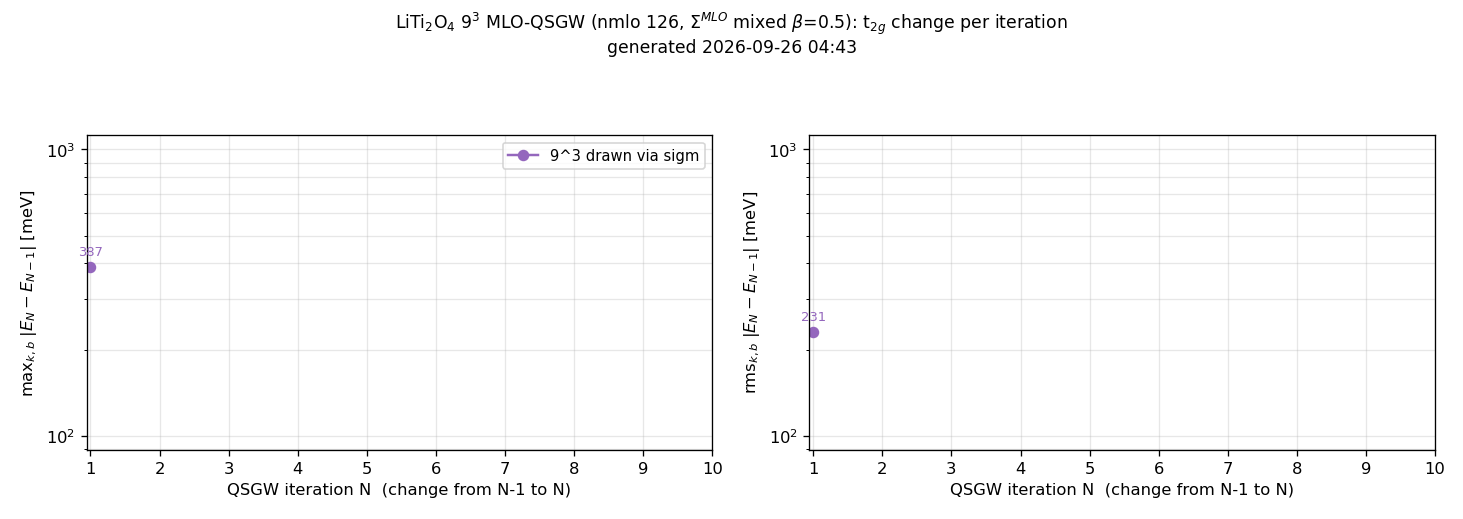
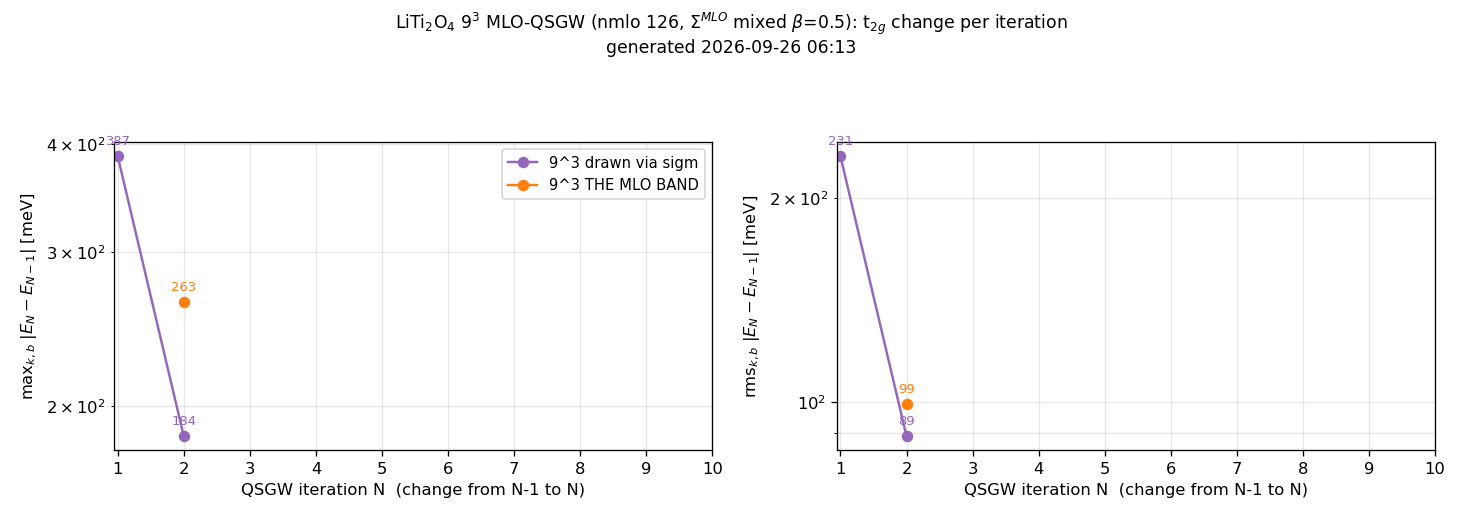
kBT_research: 9^3 iteration 2, and why the MLO markers count what they count
Iteration 2: 5326 s, clean.  The check flagged gwdrv=50 against the 6^3 value 36.
Both markers are printed once per process, by the processes that own at least one
k point, and lmf hands out k points in blocks of ceil(nk/np).  With np=60: SCF 16 -> 35
(irreducible k), GW driver 72 -> 200 q in blocks of 2 -> 4, i.e. 36 -> 50; the MLO band
writeham at np=8 gives 8 -> 7.  All normal; the table of expected values goes next to
the living figure.

diff --git a/Samples/kBT/kBT_research.md b/Samples/kBT/kBT_research.md
@@ -15,7 +15,7 @@
 
 ## 最新の図（走行中のチェーンを映す。ここだけ上書きされる）
 
-**最終更新 2026-09-26 04:50**（9³ iter 1）／ 追っているのは **`liti_mlo_k9`**（**9³**、nmlo 126、$\Sigma^{\rm MLO}$ を β=0.5 で混合、10 反復投入、03:07 開始）。
+**最終更新 2026-09-26 06:15**（9³ iter 2）／ 追っているのは **`liti_mlo_k9`**（**9³**、nmlo 126、$\Sigma^{\rm MLO}$ を β=0.5 で混合、10 反復投入、03:07 開始）。
 6³ の v9 は 10 反復で完了し、最終図は 03:15 のエントリに凍結した。
 
 | 列 | 何を描いたか | 描き方 |
@@ -43,9 +43,21 @@
 | $N$ | 時刻 | 秒 | SCF 回数 | `sigm` 描画 max / rms | MLO バンド max / rms | 備考 |
 |---|---|---|---|---|---|---|
 | 1 | 04:39 | 5314 | 19 | 387 / 231（LDA から）| — | 混合 543.85 → 271.92（半分）、MISS 0 |
+| 2 | 06:10 | 5326 | 11 | 184 / 89 | 263 / 99 | $x_0$ を `.prev` から、MISS 0 |
 
-**9³ での正常値**（6³ と違うので注意）: `mloON` = **35**（= 既約 k 点数 `nqibz`、6³ は 16）、
-1 反復 ≈ 5300 秒（6³ は ≈ 950）、スナップショット 2.4 GB（6³ は 0.9）。`check_iter.sh` は `CHECK_MLOON=35 CHECK_MAXSECS=12000` で使う。
+**9³ での正常値**（6³ と違うので注意。`check_iter.sh` は `CHECK_MLOON=35 CHECK_GWDRV=50 CHECK_MAXSECS=12000` で使う）
+
+どちらの印も `sigmlo_init` が**プロセスごとに最初の 1 回**出す行で、`getsenex` を呼ぶのは担当する k 点を持つプロセスだけ。
+`lmf` は k 点を大きさ ⌈nk/np⌉ のかたまりで配るので、印の数 = ⌈nk / ⌈nk/np⌉⌉ になる。
+
+| 印 | `lmf` の np | k 点数 6³ → 9³ | かたまり | 印の数 6³ → 9³ |
+|---|---|---|---|---|
+| `mloON`（SCF）| 60 | 既約 16 → 35（`BZMESH: ngrp nq 48 ...`）| 1 → 1 | **16 → 35** |
+| `gwdrv`（GW ドライバ）| 60 | `QPLIST.jobgw1` 72 → 200（`ZmloSig` のレコード数と同じ）| 2 → 4 | **36 → 50** |
+| MLO バンドの `writeham` | 8 | 16 → 35 | 2 → 5 | **8 → 7**（9³ は 5×7=35 で 8 番目が空）|
+
+意味のある異常はこの数より**少ない**場合（一部のプロセスが MLO 経路に入らず従来の `sigm` に落ちた）。
+ほか: 1 反復 ≈ 5300 秒（6³ は ≈ 950）、スナップショット 2.4 GB（6³ は 0.9）。
 
 ## 2026-09-26
 
